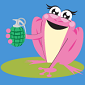
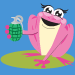
Added border and better frogs

diff --git a/Pond.java b/Pond.java
@@ -41,28 +41,28 @@ public class Pond extends JPanel{
          
             if(i==1 && j==1){
                Image img = testPlayer.get(0).getImage();
-               Image resizedImage = img.getScaledInstance(85, 85, 0);
+               Image resizedImage = img.getScaledInstance(70, 70, 0);
                lp.setIcon(new ImageIcon(resizedImage));
             }
             else if(i==1 && j==8){
                Image img = testPlayer.get(1).getImage();
-               Image resizedImage = img.getScaledInstance(85, 85, 0);
+               Image resizedImage = img.getScaledInstance(70, 70, 0);
                lp.setIcon(new ImageIcon(resizedImage));
             }
             else if(i==8 && j==1){
                Image img = testPlayer.get(2).getImage();
-               Image resizedImage = img.getScaledInstance(85, 85, 0);
+               Image resizedImage = img.getScaledInstance(70, 70, 0);
                lp.setIcon(new ImageIcon(resizedImage));
             }
             else if(i==8 && j==8){
                Image img = testPlayer.get(3).getImage();
-               Image resizedImage = img.getScaledInstance(85, 85, 0);
+               Image resizedImage = img.getScaledInstance(70, 70, 0);
                lp.setIcon(new ImageIcon(resizedImage));
             }
             else{
                try{
                   Image imge = ImageIO.read(getClass().getResource("empty.png"));
-                  Image resizeImage = imge.getScaledInstance(85, 85, 0);
+                  Image resizeImage = imge.getScaledInstance(70, 70, 0);
                   lp.setIcon(new ImageIcon(resizeImage));
                }
                catch(IOException ie){
@@ -70,6 +70,42 @@ public class Pond extends JPanel{
                }
             }
             this.add(lilypads[i][j]);
+         }
+      }
+      for(int i=0; i<10; i++){
+         try{
+            Image imge = ImageIO.read(getClass().getResource("border-left.png"));
+            lilypads[i][0].setIcon(new ImageIcon(imge));
+         }
+         catch(IOException ie){
+            ie.printStackTrace();
+         }
+      }
+      for(int i=0; i<10; i++){
+         try{
+            Image imge = ImageIO.read(getClass().getResource("border-top.png"));
+            lilypads[0][i].setIcon(new ImageIcon(imge));
+         }
+         catch(IOException ie){
+            ie.printStackTrace();
+         }
+      }
+      for(int i=0; i<10; i++){
+         try{
+            Image imge = ImageIO.read(getClass().getResource("border-right.png"));
+            lilypads[i][9].setIcon(new ImageIcon(imge));
+         }
+         catch(IOException ie){
+            ie.printStackTrace();
+         }
+      }
+      for(int i=0; i<10; i++){
+         try{
+            Image imge = ImageIO.read(getClass().getResource("border-bottom.png"));
+            lilypads[9][i].setIcon(new ImageIcon(imge));
+         }
+         catch(IOException ie){
+            ie.printStackTrace();
          }
       }
    }//end constructor

diff --git a/Player.java b/Player.java
@@ -37,7 +37,7 @@ public class Player{
       switch(playerNum){
          case 1:
             try{
-               frog = ImageIO.read(getClass().getResource("redfrog.png"));
+               frog = ImageIO.read(getClass().getResource("red-frog.png"));
             }
             catch(IOException ie){
                ie.printStackTrace();
@@ -46,7 +46,7 @@ public class Player{
             break;
          case 2:
             try{
-               frog = ImageIO.read(getClass().getResource("trumpfrog.png"));
+               frog = ImageIO.read(getClass().getResource("orange-frog.png"));
             }
             catch(IOException ie){
                ie.printStackTrace();

diff --git a/Lilypad.java b/Lilypad.java
@@ -19,7 +19,7 @@ public class Lilypad extends JButton
    */
    public Lilypad()
    {
-      this.setPreferredSize(new Dimension(85,85));
+      this.setPreferredSize(new Dimension(70,70));
       //Sets the new LilyPad icon to the empty space.
       //jbPad.setIcon(empty);
    }//end constructor
